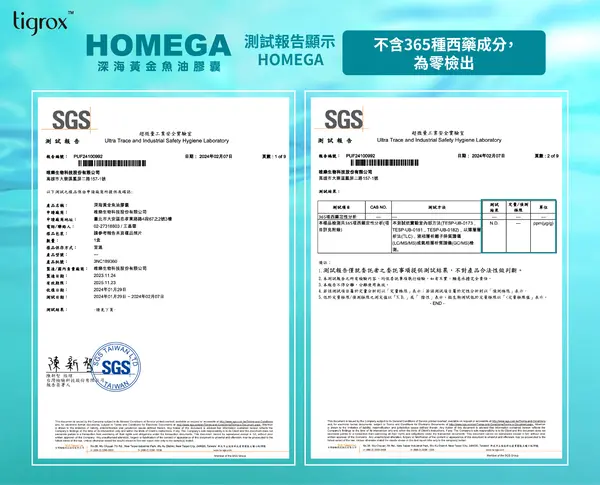
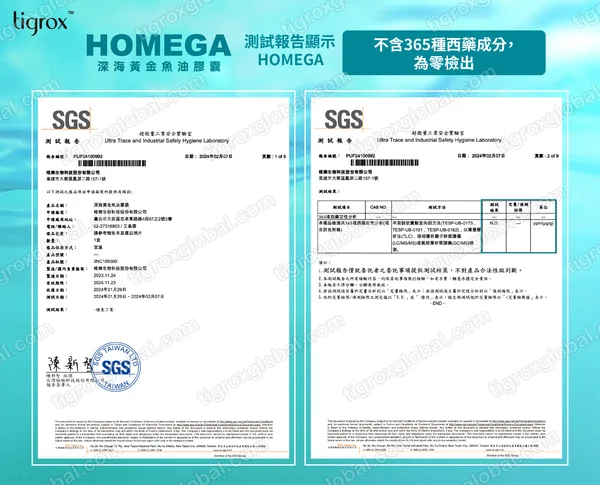
feat(certs): IFOS 5-star certificate (Traditional Chinese caption) in the report viewer + tigroxglobal.com watermark on every report image
- IFOS raw-material summary poster: caption converted from Simplified to Traditional
  Chinese (Yuanti TC, same layout; the IFOS report itself is pixel-identical). New
  card under the IFOS line on /promo/hmg/ opens it in the same viewer as the SGS reports.
- Viewer reads each report's shape from data-w/data-h (default stays 2000x1616), sizes
  the zoomed view to the image, and takes alt text from data-alt.
- All four SGS reports (2000px + 600px thumbnails) rebuilt from the original scans with a
  diagonal repeating tigroxglobal.com watermark; ?v=2 on every reference so phones drop
  the old copies. Home page report links now open the sharp 2000px versions.

diff --git a/promo/hmg/index.html b/promo/hmg/index.html
@@ -67,7 +67,7 @@
 
   <link rel="preload" as="image" href="/images/homega-box-front-300w.webp">
   <link rel="stylesheet" href="/css/design-tokens.css">
-  <link rel="stylesheet" href="/promo/hmg/hmg2.css?v=19">
+  <link rel="stylesheet" href="/promo/hmg/hmg2.css?v=20">
 </head>
 <body>
 
@@ -836,14 +836,18 @@
             <h3 class="proof__h">第三方檢測報告</h3>
             <p class="fact__ours proof__ifos"><img class="fact__badge" src="/images/ifos-5star-badge.png" width="220" height="220" alt="" loading="lazy">IFOS <b>5星</b></p>
             <p class="fact__small">國際魚油標準（IFOS）獨立檢測純度。</p>
+            <!-- The IFOS raw-material summary report (Wellous poster, caption converted to Traditional
+                 Chinese on 7 Oct 2026; the report itself is untouched). Opens in the same viewer as the SGS
+                 reports; data-w/data-h give the viewer its portrait shape. -->
+            <a class="ifos-cert" href="/images/ifos-certificate-2000.webp" data-report data-w="1414" data-h="2000" aria-label="放大 IFOS 5星認證" data-title="IFOS 5星認證" data-alt="IFOS 原料摘要報告：五星" data-meta="IFOS 原料摘要報告 · 原料 Omegavie · Polaris"><span class="ifos-cert__img"><img src="/images/ifos-certificate-600.webp" width="600" height="849" alt="" loading="lazy"><i class="sgs__zoom" aria-hidden="true"><svg viewBox="0 0 20 20"><circle cx="8.5" cy="8.5" r="5.5"/><path d="M12.5 12.5l4.5 4.5M8.5 6v5M6 8.5h5"/></svg></i></span><span>查看 IFOS 證書</span></a>
           </div>
           <div class="proof__b">
             <p class="proof__sgs">SGS 測試報告 · 2024年2月<small>點按報告，可放大細看</small></p>
             <ul class="sgs">
-              <li><a href="/images/sgs-heavy-metals-2000.webp" data-report aria-label="放大 SGS 測試報告：重金屬" data-title="重金屬（砷、鉛、汞、鎘、銅）" data-meta="SGS 測試報告 · 2024年2月 · 報告編號 PUF24100989"><span class="sgs__crop"><img src="/images/cert-HOMEGA檢驗報告(重金屬).webp" width="600" height="485" alt="" loading="lazy"><i class="sgs__zoom" aria-hidden="true"><svg viewBox="0 0 20 20"><circle cx="8.5" cy="8.5" r="5.5"/><path d="M12.5 12.5l4.5 4.5M8.5 6v5M6 8.5h5"/></svg></i></span><span>重金屬</span></a></li>
-              <li><a href="/images/sgs-western-drugs-2000.webp" data-report aria-label="放大 SGS 測試報告：西藥成分" data-title="西藥成分（365 項）" data-meta="SGS 測試報告 · 2024年2月 · 報告編號 PUF24100992"><span class="sgs__crop"><img src="/images/cert-HOMEGA檢驗報告(西藥).webp" width="600" height="485" alt="" loading="lazy"><i class="sgs__zoom" aria-hidden="true"><svg viewBox="0 0 20 20"><circle cx="8.5" cy="8.5" r="5.5"/><path d="M12.5 12.5l4.5 4.5M8.5 6v5M6 8.5h5"/></svg></i></span><span>西藥</span></a></li>
-              <li><a href="/images/sgs-pesticides-2000.webp" data-report aria-label="放大 SGS 測試報告：殘留農藥" data-title="殘留農藥（407 項）" data-meta="SGS 測試報告 · 2024年2月 · 報告編號 PUF24100988"><span class="sgs__crop"><img src="/images/cert-HOMEGA檢驗報告(農藥).webp" width="600" height="485" alt="" loading="lazy"><i class="sgs__zoom" aria-hidden="true"><svg viewBox="0 0 20 20"><circle cx="8.5" cy="8.5" r="5.5"/><path d="M12.5 12.5l4.5 4.5M8.5 6v5M6 8.5h5"/></svg></i></span><span>農藥</span></a></li>
-              <li><a href="/images/sgs-preservatives-2000.webp" data-report aria-label="放大 SGS 測試報告：防腐劑" data-title="防腐劑（12 項）" data-meta="SGS 測試報告 · 2024年2月 · 報告編號 PUF24100991"><span class="sgs__crop"><img src="/images/cert-HOMEGA檢驗報告(防腐劑).webp" width="600" height="485" alt="" loading="lazy"><i class="sgs__zoom" aria-hidden="true"><svg viewBox="0 0 20 20"><circle cx="8.5" cy="8.5" r="5.5"/><path d="M12.5 12.5l4.5 4.5M8.5 6v5M6 8.5h5"/></svg></i></span><span>防腐劑</span></a></li>
+              <li><a href="/images/sgs-heavy-metals-2000.webp?v=2" data-report aria-label="放大 SGS 測試報告：重金屬" data-title="重金屬（砷、鉛、汞、鎘、銅）" data-meta="SGS 測試報告 · 2024年2月 · 報告編號 PUF24100989"><span class="sgs__crop"><img src="/images/cert-HOMEGA檢驗報告(重金屬).webp?v=2" width="600" height="485" alt="" loading="lazy"><i class="sgs__zoom" aria-hidden="true"><svg viewBox="0 0 20 20"><circle cx="8.5" cy="8.5" r="5.5"/><path d="M12.5 12.5l4.5 4.5M8.5 6v5M6 8.5h5"/></svg></i></span><span>重金屬</span></a></li>
+              <li><a href="/images/sgs-western-drugs-2000.webp?v=2" data-report aria-label="放大 SGS 測試報告：西藥成分" data-title="西藥成分（365 項）" data-meta="SGS 測試報告 · 2024年2月 · 報告編號 PUF24100992"><span class="sgs__crop"><img src="/images/cert-HOMEGA檢驗報告(西藥).webp?v=2" width="600" height="485" alt="" loading="lazy"><i class="sgs__zoom" aria-hidden="true"><svg viewBox="0 0 20 20"><circle cx="8.5" cy="8.5" r="5.5"/><path d="M12.5 12.5l4.5 4.5M8.5 6v5M6 8.5h5"/></svg></i></span><span>西藥</span></a></li>
+              <li><a href="/images/sgs-pesticides-2000.webp?v=2" data-report aria-label="放大 SGS 測試報告：殘留農藥" data-title="殘留農藥（407 項）" data-meta="SGS 測試報告 · 2024年2月 · 報告編號 PUF24100988"><span class="sgs__crop"><img src="/images/cert-HOMEGA檢驗報告(農藥).webp?v=2" width="600" height="485" alt="" loading="lazy"><i class="sgs__zoom" aria-hidden="true"><svg viewBox="0 0 20 20"><circle cx="8.5" cy="8.5" r="5.5"/><path d="M12.5 12.5l4.5 4.5M8.5 6v5M6 8.5h5"/></svg></i></span><span>農藥</span></a></li>
+              <li><a href="/images/sgs-preservatives-2000.webp?v=2" data-report aria-label="放大 SGS 測試報告：防腐劑" data-title="防腐劑（12 項）" data-meta="SGS 測試報告 · 2024年2月 · 報告編號 PUF24100991"><span class="sgs__crop"><img src="/images/cert-HOMEGA檢驗報告(防腐劑).webp?v=2" width="600" height="485" alt="" loading="lazy"><i class="sgs__zoom" aria-hidden="true"><svg viewBox="0 0 20 20"><circle cx="8.5" cy="8.5" r="5.5"/><path d="M12.5 12.5l4.5 4.5M8.5 6v5M6 8.5h5"/></svg></i></span><span>防腐劑</span></a></li>
             </ul>
           </div>
         </div>
@@ -1338,7 +1342,7 @@
 
   <script src="/js/main.js?v=5"></script>
   <script src="/promo/promo.js?v=3"></script>
-  <script src="/promo/hmg/hmg2.js?v=14"></script>
+  <script src="/promo/hmg/hmg2.js?v=15"></script>
   <script src="/promo/hmg/t1.js?v=8"></script>
 </body>
 </html>

diff --git a/promo/hmg/hmg2.css b/promo/hmg/hmg2.css
@@ -1099,6 +1099,17 @@ a { color: inherit; }
 .proof__ifos { margin-top: 6px; }
 .proof .fact__small { margin-top: 4px; }
 .proof__b { margin-top: 18px; padding-top: 16px; border-top: 1px dashed var(--line); }
+/* The IFOS certificate: one portrait card under the IFOS line, same look as the SGS cards */
+.ifos-cert {
+  display: inline-grid; gap: 5px; width: 112px; margin-top: 12px; text-align: center; text-decoration: none;
+  font-size: 13px; font-weight: 500; color: var(--ink-2); -webkit-tap-highlight-color: transparent;
+  transition: transform 100ms ease-out;
+}
+.ifos-cert__img {
+  display: block; position: relative; overflow: hidden; aspect-ratio: 3 / 4; border-radius: 4px; background: #fff;
+  box-shadow: 0 0 0 1px var(--line), 0 4px 10px rgba(28, 25, 23, 0.08); transition: transform 150ms ease-out, box-shadow 150ms ease-out;
+}
+.ifos-cert__img img { display: block; width: 100%; height: 100%; object-fit: cover; object-position: top; }
 .proof__sgs { font-size: 15px; font-weight: 700; line-height: 1.5; color: var(--ink); }
 .proof__sgs small { display: block; font-size: 13px; font-weight: 400; color: var(--mute); }
 
@@ -1126,7 +1137,7 @@ a { color: inherit; }
 }
 .sgs__zoom svg { width: 14px; height: 14px; fill: none; stroke: #fff; stroke-width: 2; stroke-linecap: round; }
 @media (hover: hover) {
-  .sgs a:hover .sgs__crop { transform: translateY(-2px); box-shadow: 0 0 0 1px var(--teal-l), 0 8px 18px rgba(28, 25, 23, 0.12); }
+  .sgs a:hover .sgs__crop, .ifos-cert:hover .ifos-cert__img { transform: translateY(-2px); box-shadow: 0 0 0 1px var(--teal-l), 0 8px 18px rgba(28, 25, 23, 0.12); }
 }
 
 /* TOTOX ruler: 0–30, GOED limit at 26 */
@@ -1223,7 +1234,7 @@ html.rv-lock, html.rv-lock body { overflow: hidden; }
 /* zoomed: the report at its real size (2000px wide, its small print readable), panned natively */
 .rv.is-zoom .rv__stage { overflow: auto; -webkit-overflow-scrolling: touch; overscroll-behavior: contain; }
 .rv.is-zoom .rv__img {
-  position: static; display: block; width: 2000px; height: auto; margin: 0 auto;
+  position: static; display: block; width: var(--rv-w, 2000px); height: auto; margin: 0 auto;
   object-fit: fill; cursor: zoom-out;
 }
 .rv__nav {
@@ -1659,7 +1670,7 @@ html.rv-lock, html.rv-lock body { overflow: hidden; }
    iOS applies :active only because hmg2.js registers an empty passive touchstart listener.
    --------------------------------------------------------------- */
 .plan:active, .buy:active, .sticky__buy:active, .m2-steps button:active, .m2-play:active,
-.pick:active, .rv__step:active, .sgs a:active, .nudge button:active { transform: scale(0.97); }
+.pick:active, .rv__step:active, .sgs a:active, .ifos-cert:active, .nudge button:active { transform: scale(0.97); }
 
 /* 「選擇完整療程 · 6樽 ↓」 lands on the bottom picker: one teal ring pulses out of the 6-bottle
    tile, so the eye finds where it arrived (hmg2.js; not under reduced motion) */

diff --git a/index.html b/index.html
@@ -891,20 +891,20 @@
             <div class="cert-reports">
               <h4 class="cert-reports__heading">SGS 第三方檢測報告</h4>
               <div class="cert-reports__grid">
-                <a href="images/cert-HOMEGA檢驗報告(重金屬).webp" class="cert-reports__item" target="_blank" rel="noopener">
-                  <img src="images/cert-HOMEGA檢驗報告(重金屬).webp" alt="HOMEGA 重金屬檢測報告 — 零檢出" loading="lazy" width="150" height="106">
+                <a href="images/sgs-heavy-metals-2000.webp?v=2" class="cert-reports__item" target="_blank" rel="noopener">
+                  <img src="images/cert-HOMEGA檢驗報告(重金屬).webp?v=2" alt="HOMEGA 重金屬檢測報告 — 零檢出" loading="lazy" width="150" height="106">
                   <span class="text-small">重金屬檢測</span>
                 </a>
-                <a href="images/cert-HOMEGA檢驗報告(西藥).webp" class="cert-reports__item" target="_blank" rel="noopener">
-                  <img src="images/cert-HOMEGA檢驗報告(西藥).webp" alt="HOMEGA 西藥檢測報告 — 零檢出" loading="lazy" width="150" height="106">
+                <a href="images/sgs-western-drugs-2000.webp?v=2" class="cert-reports__item" target="_blank" rel="noopener">
+                  <img src="images/cert-HOMEGA檢驗報告(西藥).webp?v=2" alt="HOMEGA 西藥檢測報告 — 零檢出" loading="lazy" width="150" height="106">
                   <span class="text-small">西藥檢測</span>
                 </a>
-                <a href="images/cert-HOMEGA檢驗報告(農藥).webp" class="cert-reports__item" target="_blank" rel="noopener">
-                  <img src="images/cert-HOMEGA檢驗報告(農藥).webp" alt="HOMEGA 農藥檢測報告 — 零檢出" loading="lazy" width="150" height="106">
+                <a href="images/sgs-pesticides-2000.webp?v=2" class="cert-reports__item" target="_blank" rel="noopener">
+                  <img src="images/cert-HOMEGA檢驗報告(農藥).webp?v=2" alt="HOMEGA 農藥檢測報告 — 零檢出" loading="lazy" width="150" height="106">
                   <span class="text-small">農藥檢測</span>
                 </a>
-                <a href="images/cert-HOMEGA檢驗報告(防腐劑).webp" class="cert-reports__item" target="_blank" rel="noopener">
-                  <img src="images/cert-HOMEGA檢驗報告(防腐劑).webp" alt="HOMEGA 防腐劑檢測報告 — 零檢出" loading="lazy" width="150" height="106">
+                <a href="images/sgs-preservatives-2000.webp?v=2" class="cert-reports__item" target="_blank" rel="noopener">
+                  <img src="images/cert-HOMEGA檢驗報告(防腐劑).webp?v=2" alt="HOMEGA 防腐劑檢測報告 — 零檢出" loading="lazy" width="150" height="106">
                   <span class="text-small">防腐劑檢測</span>
                 </a>
               </div>

diff --git a/promo/hmg/hmg2.js b/promo/hmg/hmg2.js
@@ -1019,7 +1019,8 @@
     var meta = dlg.querySelector('[data-rv-meta]');
     var count = dlg.querySelector('[data-rv-count]');
     var hint = dlg.querySelector('[data-rv-hint]');
-    var AR = 2000 / 1616;                 // every report image has this shape (thumbnails too)
+    var AR = 2000 / 1616;                 // the SGS reports' shape (thumbnails too); a link with
+                                          // data-w/data-h (the portrait IFOS certificate) sets its own
     var ZOOM_MS = 250, FADE_MS = 200, OUT_MS = 200, IN_MS = 260, BACK_MS = 220;
     var cur = 0, opener = null, zoomed = false, token = 0, busy = false, closing = false;
     var motionT = 0, closeT = 0;
@@ -1108,6 +1109,10 @@
       var a = links[cur], my = ++token, full = a.href;
       still();
       unzoom();
+      var w = +a.getAttribute('data-w') || 2000, h = +a.getAttribute('data-h') || 1616;
+      AR = w / h;
+      img.setAttribute('width', w); img.setAttribute('height', h);
+      dlg.style.setProperty('--rv-w', w + 'px');   // zoomed = the image at its own size
       title.textContent = a.getAttribute('data-title');
       meta.textContent = '';                // each part (source · month · report number) stays whole
       a.getAttribute('data-meta').split(' · ').forEach(function (part, k) {
@@ -1115,7 +1120,7 @@
         var sp = document.createElement('span'); sp.textContent = part; meta.appendChild(sp);
       });
       count.textContent = (cur + 1) + ' / ' + links.length;
-      img.alt = 'SGS 測試報告：' + a.getAttribute('data-title');
+      img.alt = a.getAttribute('data-alt') || 'SGS 測試報告：' + a.getAttribute('data-title');
       // the thumbnail (already loaded) shows at once; the full report takes its place when ready
       img.src = thumbSrc(a) || full;
       var pre = new Image();
